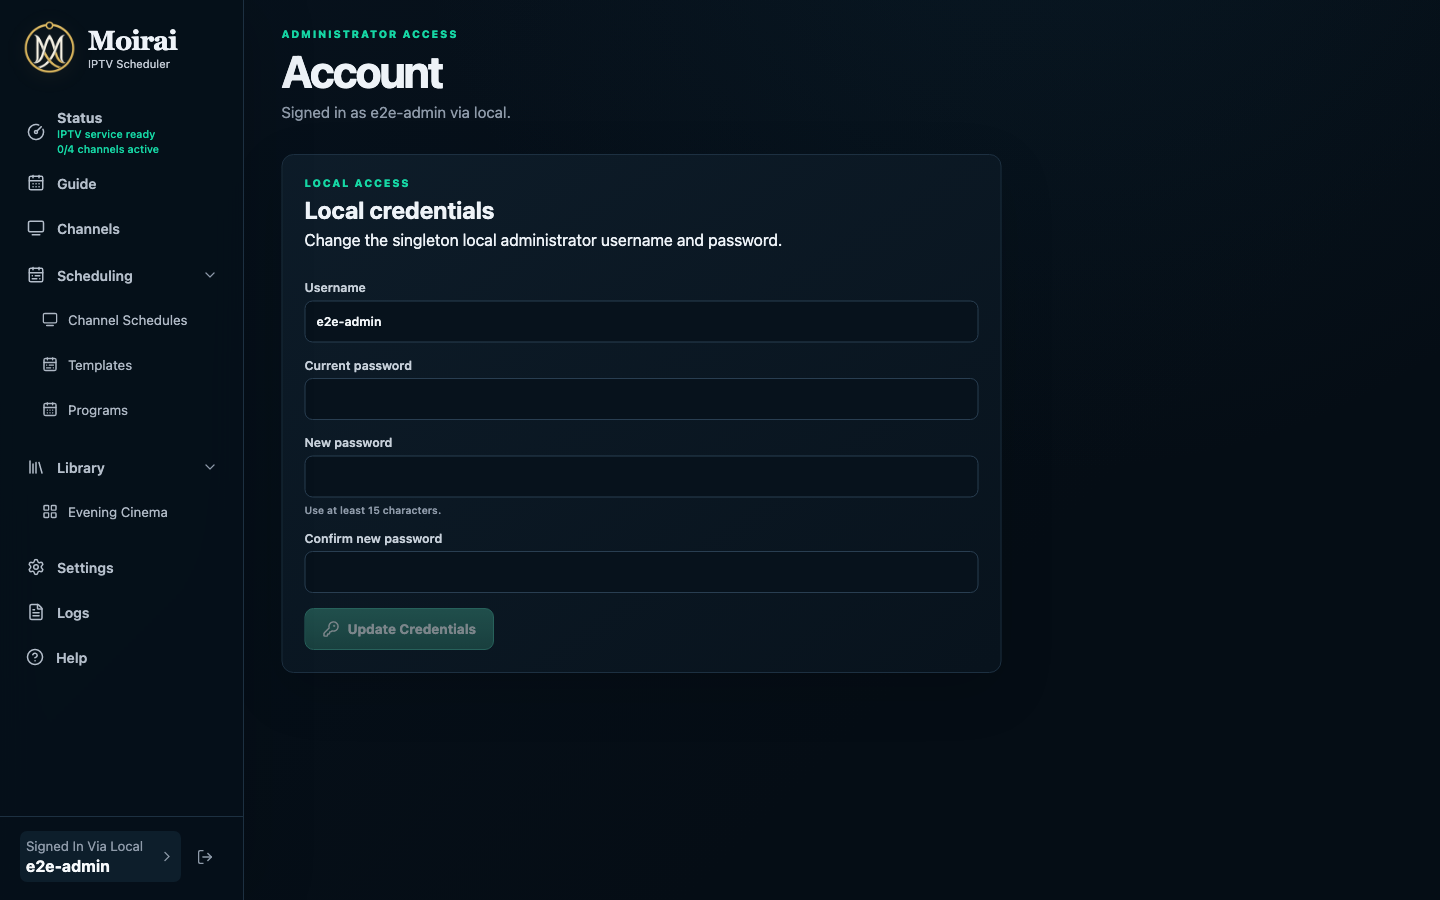
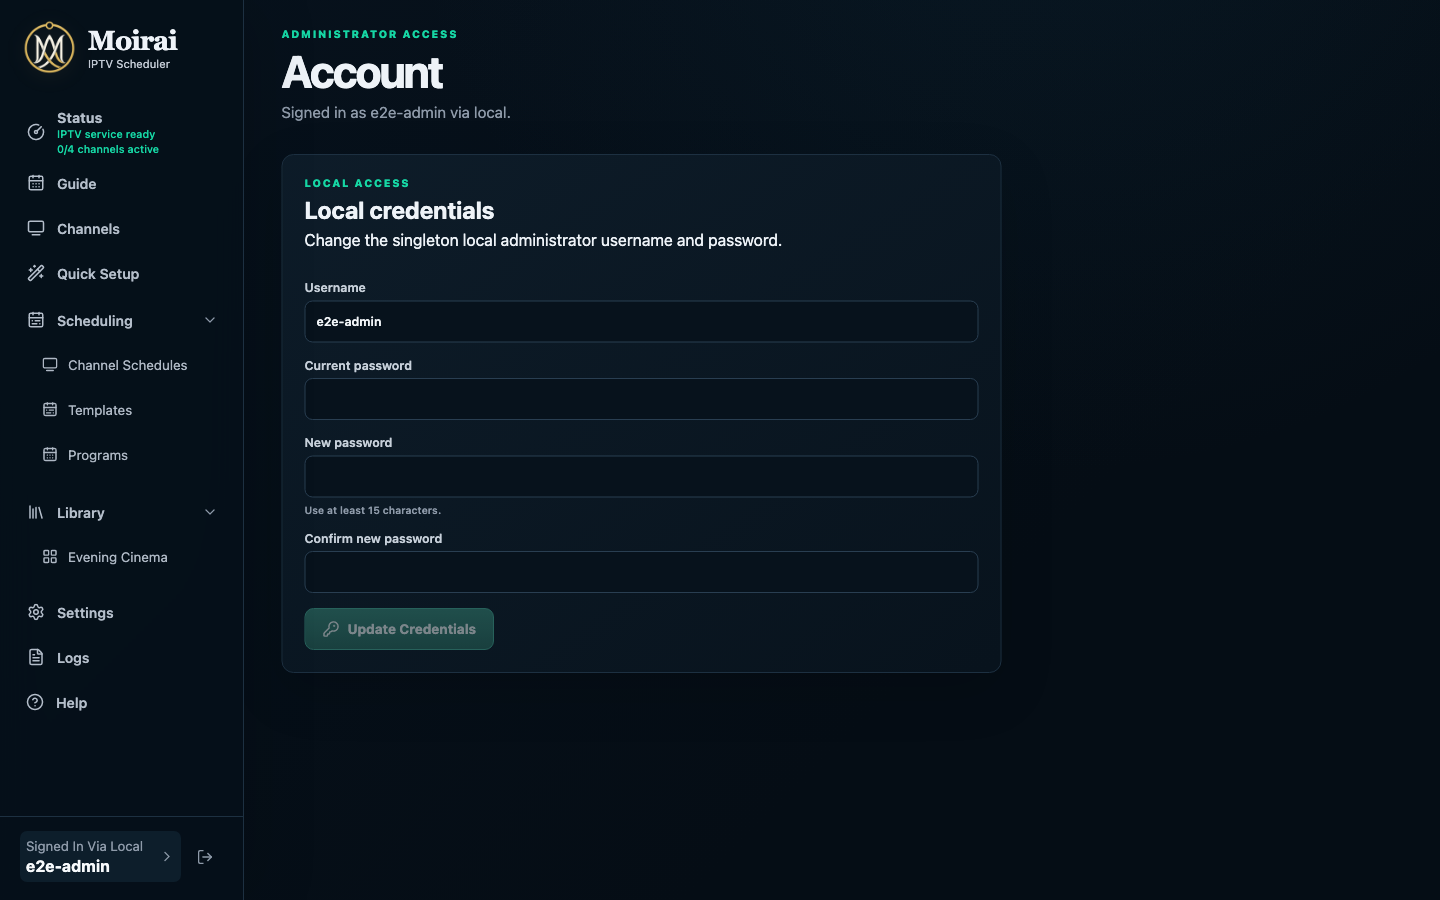
Adapt user guide and screenshots to Quick Setup and library queries

diff --git a/scripts/user-docs.ts b/scripts/user-docs.ts
@@ -203,6 +203,25 @@ export async function loadUserDocPages(paths = defaultUserDocsPaths): Promise<Us
 /** Render restricted, repository-authored Markdown for the in-app help drawer. */
 function contextualHtml(body: string): string {
 	const markdown = new MarkdownIt({ html: false, linkify: true, typographer: true });
+	markdown.renderer.rules.image = (tokens, index, options, _env, renderer) => {
+		const token = tokens[index]!;
+		const source = token.attrGet('src');
+		if (source?.startsWith('/screenshots/')) {
+			token.attrSet('src', `/help${source}`);
+		}
+		token.attrSet('alt', renderer.renderInlineAsText(token.children ?? [], options, _env));
+		return renderer.renderToken(tokens, index, options);
+	};
+	markdown.renderer.rules.link_open = (tokens, index, options, _env, renderer) => {
+		const token = tokens[index]!;
+		const href = token.attrGet('href');
+		if (href?.startsWith('/') && !href.startsWith('//') && !href.startsWith('/help/')) {
+			const [pathname, anchor] = href.split('#');
+			const fullPath = pathname === '/' ? '/help/' : `/help${pathname}.html`;
+			token.attrSet('href', `${fullPath}${anchor ? `#${anchor}` : ''}`);
+		}
+		return renderer.renderToken(tokens, index, options);
+	};
 	const withoutTitle = body.replace(/^\s*#\s+[^\n]+\n+/u, '');
 	return markdown.render(withoutTitle);
 }

diff --git a/tests/e2e/user-documentation.spec.ts b/tests/e2e/user-documentation.spec.ts
@@ -275,6 +275,21 @@ test('captures the released administrator workflows for the user guide', async (
 	await expect(page.getByRole('heading', { name: 'Moonrise Theater' })).toBeVisible();
 	await capture(page, 'media-item.png');
 
+	await page.goto('/quick');
+	await page.getByRole('button', { name: /Movie Channel/u }).click();
+	await page.getByRole('combobox', { name: 'Library', exact: true }).selectOption(libraryId);
+	await page.locator('#quick-setup-actions').getByRole('button', { name: 'Continue', exact: true }).click();
+	await expect(page.getByRole('heading', { name: 'Choose the programming' })).toBeVisible();
+	await expect(page.locator('.quick-query-carousel-item').first()).toBeVisible();
+	await expect(page.locator('.quick-step')).not.toHaveClass(/quick-step-enter/u);
+	await expect(page.locator('.quick-step')).toHaveCSS('opacity', '1');
+	await capture(page, 'quick-setup.png');
+	await page.getByRole('button', { name: 'Close Quick Setup' }).click();
+	const discardSetup = page.getByRole('alertdialog', { name: 'Leave Quick Setup?' });
+	if (await discardSetup.isVisible()) {
+		await discardSetup.getByRole('button', { name: /Discard/u }).click();
+	}
+
 	const programResponse = await page.request.post('/api/v1/programs', {
 		headers: requestHeaders,
 		data: {

diff --git a/tests/scripts/user-docs.test.ts b/tests/scripts/user-docs.test.ts
@@ -8,6 +8,7 @@ import {
 	listOutstandingReviews,
 	loadUserDocPages,
 	pageDigest,
+	writeUserDocsManifest,
 	type UserDocsPaths,
 } from '@scripts/user-docs.js';
 
@@ -64,6 +65,16 @@ afterEach(async () => {
 });
 
 describe('user documentation review tracking', () => {
+	it('renders contextual screenshots and guide links under the bundled help path', async () => {
+		const { paths, pagePath } = await fixture();
+		await writeFile(pagePath, `${await readFile(pagePath, 'utf8')}\n![Screenshot](/screenshots/example.png)\n[Read more](/example)\n<script>alert(1)</script>\n`);
+		await writeUserDocsManifest(paths);
+		const manifest = JSON.parse(await readFile(paths.generatedManifestPath, 'utf8'));
+		expect(manifest.topics.example.html).toContain('src="/help/screenshots/example.png"');
+		expect(manifest.topics.example.html).toContain('href="/help/example.html"');
+		expect(manifest.topics.example.html).not.toContain('<script>');
+	});
+
 	it('normalizes line endings and includes screenshot bytes in page digests', async () => {
 		const { paths, screenshotPath } = await fixture();
 		const source = await readFile(path.join(paths.sourceRoot, 'example.md'), 'utf8');

diff --git a/apps/web/src/help.ts b/apps/web/src/help.ts
@@ -2,6 +2,7 @@ import { ref } from 'vue';
 
 /** Stable topic identifiers that every application route mapping must resolve in the bundled guide. */
 export const helpTopicIds = [
+	'getting-started.first-channel',
 	'operations.status',
 	'playback.guide',
 	'libraries.browse',
@@ -30,6 +31,9 @@ export function closeHelp(): void {
 
 /** Select the most specific help topic for one management route. */
 export function helpTopicForPath(pathname: string): string {
+	if (pathname === '/quick') {
+		return 'getting-started.first-channel';
+	}
 	if (pathname === '/') {
 		return 'operations.status';
 	}

diff --git a/tests/apps/web/src/help.test.ts b/tests/apps/web/src/help.test.ts
@@ -11,6 +11,7 @@ describe('contextual help topics', () => {
 
 	it('maps management routes to the most specific stable topic', () => {
 		expect(helpTopicForPath('/')).toBe('operations.status');
+		expect(helpTopicForPath('/quick')).toBe('getting-started.first-channel');
 		expect(helpTopicForPath('/libraries/library-id/items/item-id')).toBe('libraries.browse');
 		expect(helpTopicForPath('/schedules/programs')).toBe('scheduling.programs');
 		expect(helpTopicForPath('/schedules/templates')).toBe('scheduling.templates');

diff --git a/apps/docs/src/getting-started/first-channel.md b/apps/docs/src/getting-started/first-channel.md
@@ -2,12 +2,39 @@
 id: getting-started.first-channel
 title: Create your first channel
 description: Follow the shortest path from a media folder to a playable IPTV channel.
-contextual: false
+contextual: true
 ---
 
 # Create your first channel
 
-This walkthrough uses the full editors available in the current released interface.
+## Start with Quick Setup
+
+Open **Quick Setup** from navigation or the dashboard. Choose **Movie Channel**, **Show Channel**, or
+**Music Video Channel** to open the four-step wizard.
+
+1. **Choose a media library.** Reuse a compatible library or choose **Create new**, enter a name and
+   the folder path as Moirai sees it, then select **Create and Continue**. Scanning starts immediately.
+2. **Choose the programming.** Use a dynamic library query to include matching media as the library
+   changes, or select specific items. Show channels can also select shows or seasons. Configure filters,
+   ordering, an optional item limit, and playback selection behavior; inspect the matching media sample.
+3. **Name and brand the channel.** Set a distinct channel number, name, optional group, and optional
+   logo. The logo keeps its full image and transparency. Playback starts with automatic defaults.
+4. **Review Setup.** Inspect the library, programming, channel, and sample day, then select
+   **Create Channel**. Open the schedule from the completion screen or visit **Guide** for IPTV addresses.
+
+![Quick Setup programming with an indexed movie library](/screenshots/quick-setup.png)
+
+The sample day uses the server timezone. It is illustrative: indexing and randomized selection can
+change the result. A preview error does not prevent an otherwise valid setup. A dynamic query can be
+saved while scanning is still underway, but playback needs usable indexed media.
+
+Quick Setup creates a linked program, daily template, channel, and base schedule together. A library
+created earlier in the wizard remains and continues scanning if you cancel. If an optional logo upload
+fails, the channel is still created; retry the upload from the completion screen.
+
+## Use the full editors
+
+For finer control over individual resources or an existing setup, follow these steps.
 
 1. Open **Libraries**, select **Add Library**, give the source a recognizable name, and enter its path
    inside the Moirai container. Choose **Add and Scan**.

diff --git a/apps/docs/src/scheduling/programs.md b/apps/docs/src/scheduling/programs.md
@@ -15,6 +15,15 @@ programs in their time slots, so one program can appear on several channels or d
 Use an explicit sequence when you want a hand-authored list. Use a selection-based program when the
 eligible items should come from library rules and can change as the library changes.
 
+Library queries share the catalog filters: title, release year, indexed date, rating, actors,
+directors, and included or excluded genres. Choose **Configure Filters** to refine the matches.
+Order the query by title/episode, indexed date, or release date, in either direction, and optionally
+limit the ordered set. The media carousel updates as scanning adds or changes matching items.
+
+The item limit applies before unusable or unavailable media is excluded. If some of the limited
+items cannot play, Moirai does not replace them with matches outside that limit. Query ordering
+defines the candidate set; the selection strategy below controls playback through that set.
+
 Ordering controls how eligible items are consumed. Sequential order follows the configured order;
 shuffle cycles through a repeatable shuffled pool; random selection makes a repeatable choice for
 each step. Options for avoiding repeats or preferring unseen content refine that choice without

diff --git a/apps/docs/src/libraries/browsing-media.md b/apps/docs/src/libraries/browsing-media.md
@@ -16,6 +16,11 @@ The filter editor can include or exclude genres and apply facts such as actors, 
 and dates when those values exist in the source metadata. An empty result means nothing matches the
 whole active filter; it does not mean the library is empty.
 
+The same filters are available in Quick Setup and program library queries. Use **Match all** when
+every selected genre must be present or **Match any** when one is enough; excluded genres remove
+matching items. Release-year and indexed-date filters answer different questions: when the media
+was released versus when Moirai added it to the catalog.
+
 Open an item to inspect its artwork, plot, credits, source paths, subtitles, and technical playback
 details. Missing information usually means it was absent from the NFO file or media probe.
 

diff --git a/apps/docs/src/scheduling/channels.md b/apps/docs/src/scheduling/channels.md
@@ -7,6 +7,9 @@ contextual: true
 
 # Channels
 
+To build a channel and its linked programming in one workflow, use
+[Quick Setup](/getting-started/first-channel). Return to the full editors for later adjustments.
+
 A channel combines a viewer-facing number and name with playback settings. Open **Channels** to create
 or edit one and to review its resolved seven-day timeline.
 
